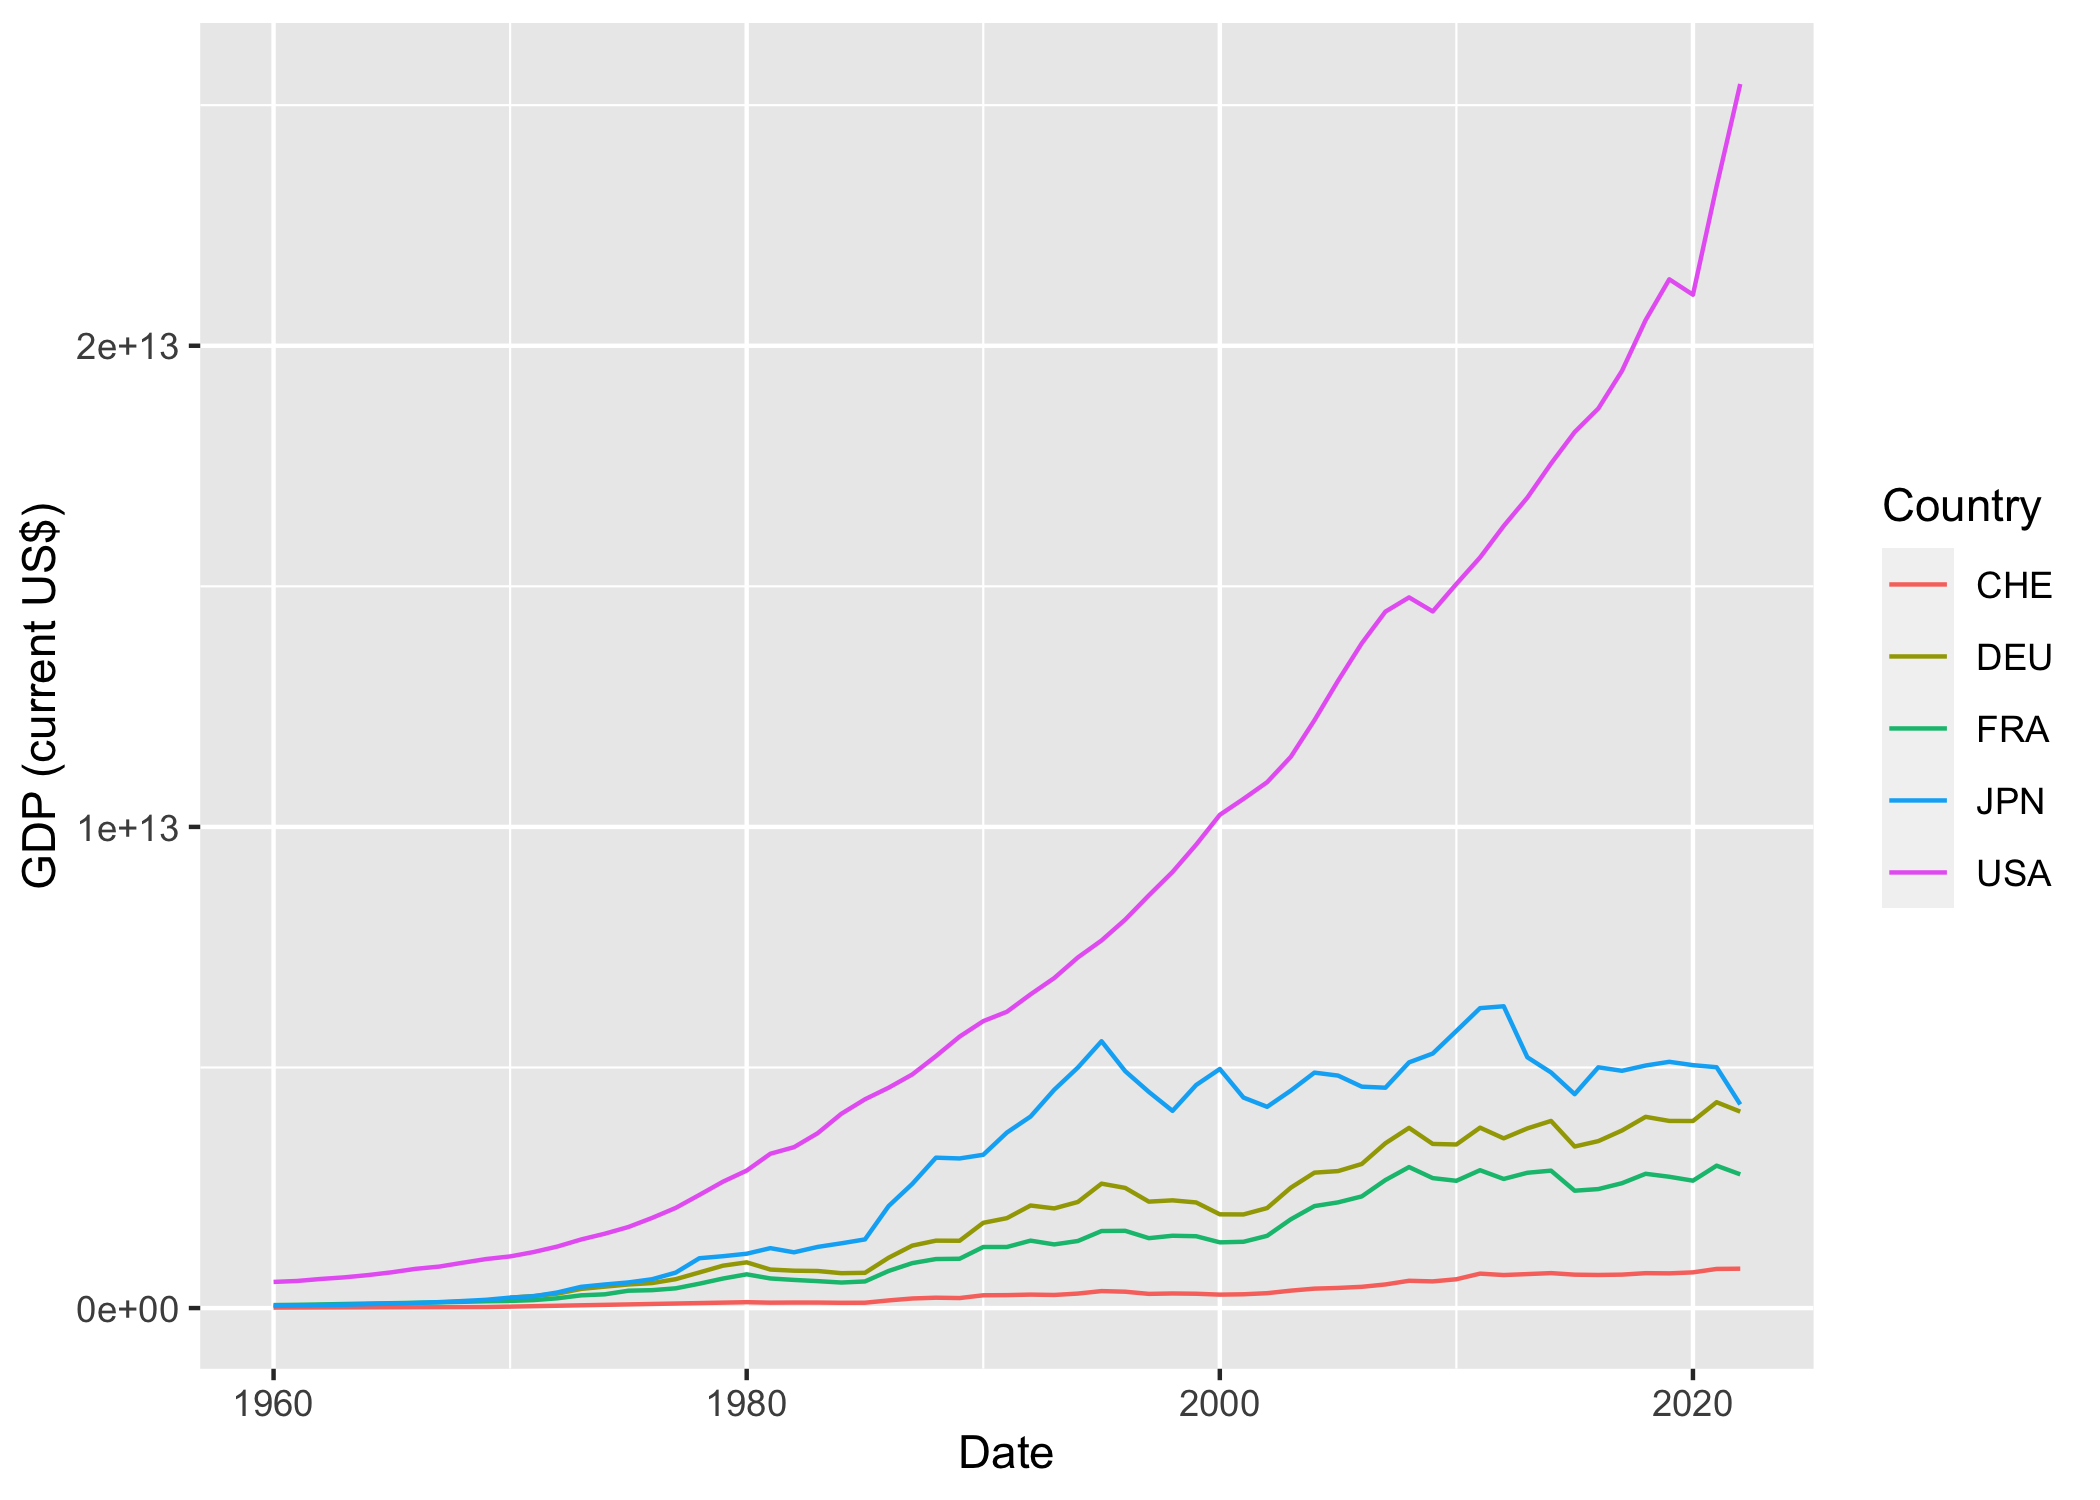
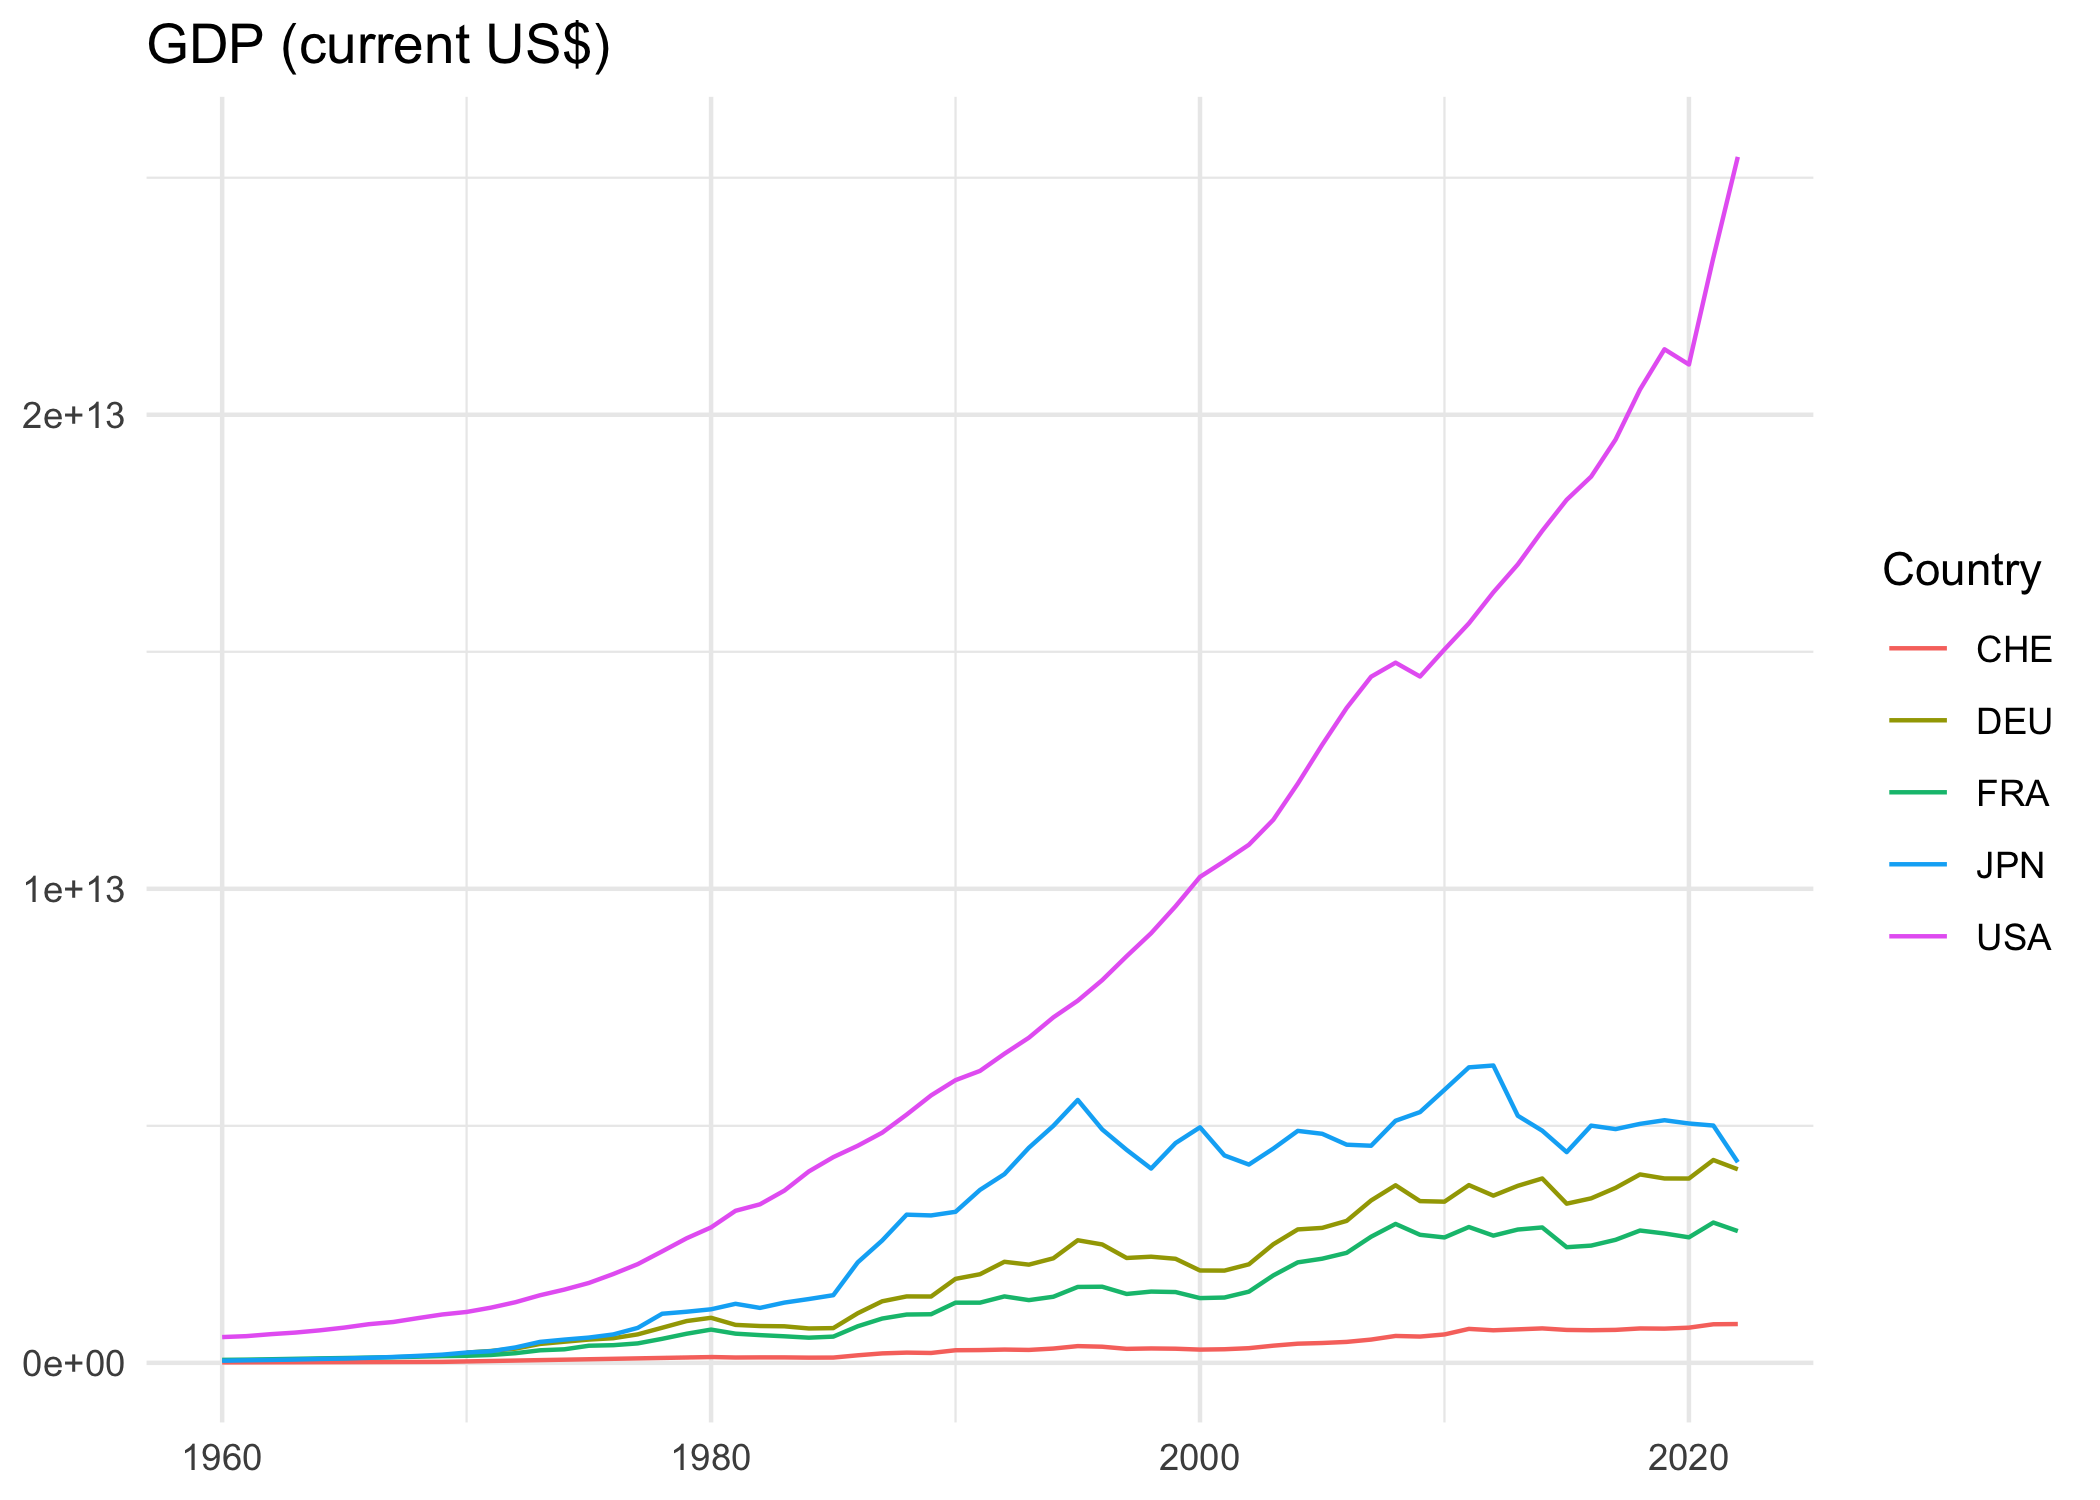
docs: clean-up readme

diff --git a/README.md b/README.md
@@ -71,10 +71,10 @@ library(worldbank)
 # filter by specific country
 wb_country(c("US", "DE"))
 #> # A tibble: 2 × 18
-#>   country_id country_code country_name  region_id region_code region_value
-#>   <chr>      <chr>        <chr>         <chr>     <chr>       <chr>
+#>   country_id country_code country_name  region_id region_code region_value      
+#>   <chr>      <chr>        <chr>         <chr>     <chr>       <chr>             
 #> 1 DEU        DE           Germany       ECS       Z7          Europe & Central …
-#> 2 USA        US           United States NAC       XU          North America
+#> 2 USA        US           United States NAC       XU          North America     
 #> # ℹ 12 more variables: admin_region_id <chr>, admin_region_code <chr>,
 #> #   admin_region_value <chr>, income_level_id <chr>, income_level_code <chr>,
 #> #   income_level_value <chr>, lending_type_id <chr>, lending_type_code <chr>,
@@ -84,19 +84,14 @@ wb_country(c("US", "DE"))
 # or fetch all (default)
 wb_country()
 #> # A tibble: 296 × 18
-#>    country_id country_code country_name       region_id region_code region_value
-#>    <chr>      <chr>        <chr>              <chr>     <chr>       <chr>
-#>  1 ABW        AW           Aruba              LCN       ZJ          Latin Ameri…
-#>  2 AFE        ZH           Africa Eastern an… NA        NA          Aggregates
-#>  3 AFG        AF           Afghanistan        SAS       8S          South Asia
-#>  4 AFR        A9           Africa             NA        NA          Aggregates
-#>  5 AFW        ZI           Africa Western an… NA        NA          Aggregates
-#>  6 AGO        AO           Angola             SSF       ZG          Sub-Saharan…
-#>  7 ALB        AL           Albania            ECS       Z7          Europe & Ce…
-#>  8 AND        AD           Andorra            ECS       Z7          Europe & Ce…
-#>  9 ARB        1A           Arab World         NA        NA          Aggregates
-#> 10 ARE        AE           United Arab Emira… MEA       ZQ          Middle East…
-#> # ℹ 286 more rows
+#>   country_id country_code country_name        region_id region_code region_value
+#>   <chr>      <chr>        <chr>               <chr>     <chr>       <chr>       
+#> 1 ABW        AW           Aruba               LCN       ZJ          Latin Ameri…
+#> 2 AFE        ZH           Africa Eastern and… NA        NA          Aggregates  
+#> 3 AFG        AF           Afghanistan         SAS       8S          South Asia  
+#> 4 AFR        A9           Africa              NA        NA          Aggregates  
+#> 5 AFW        ZI           Africa Western and… NA        NA          Aggregates  
+#> # ℹ 291 more rows
 #> # ℹ 12 more variables: admin_region_id <chr>, admin_region_code <chr>,
 #> #   admin_region_value <chr>, income_level_id <chr>, income_level_code <chr>,
 #> #   income_level_value <chr>, lending_type_id <chr>, lending_type_code <chr>,
@@ -107,20 +102,15 @@ wb_country()
 indicators <- wb_country_indicator("NY.GDP.MKTP.CD")
 indicators
 #> # A tibble: 13,200 × 10
-#>     date indicator_id   indicator_name    country_id country_name   country_code
-#>    <int> <chr>          <chr>             <chr>      <chr>          <chr>
-#>  1  2022 NY.GDP.MKTP.CD GDP (current US$) ZH         Africa Easter… AFE
-#>  2  2021 NY.GDP.MKTP.CD GDP (current US$) ZH         Africa Easter… AFE
-#>  3  2020 NY.GDP.MKTP.CD GDP (current US$) ZH         Africa Easter… AFE
-#>  4  2019 NY.GDP.MKTP.CD GDP (current US$) ZH         Africa Easter… AFE
-#>  5  2018 NY.GDP.MKTP.CD GDP (current US$) ZH         Africa Easter… AFE
-#>  6  2017 NY.GDP.MKTP.CD GDP (current US$) ZH         Africa Easter… AFE
-#>  7  2016 NY.GDP.MKTP.CD GDP (current US$) ZH         Africa Easter… AFE
-#>  8  2015 NY.GDP.MKTP.CD GDP (current US$) ZH         Africa Easter… AFE
-#>  9  2014 NY.GDP.MKTP.CD GDP (current US$) ZH         Africa Easter… AFE
-#> 10  2013 NY.GDP.MKTP.CD GDP (current US$) ZH         Africa Easter… AFE
-#> # ℹ 13,190 more rows
-#> # ℹ 4 more variables: value <dbl>, unit <chr>, obs_status <chr>, decimal <int>
+#>    date indicator_id indicator_name country_id country_name country_code   value
+#>   <int> <chr>        <chr>          <chr>      <chr>        <chr>          <dbl>
+#> 1  2022 NY.GDP.MKTP… GDP (current … ZH         Africa East… AFE          1.19e12
+#> 2  2021 NY.GDP.MKTP… GDP (current … ZH         Africa East… AFE          1.09e12
+#> 3  2020 NY.GDP.MKTP… GDP (current … ZH         Africa East… AFE          9.29e11
+#> 4  2019 NY.GDP.MKTP… GDP (current … ZH         Africa East… AFE          1.01e12
+#> 5  2018 NY.GDP.MKTP… GDP (current … ZH         Africa East… AFE          1.01e12
+#> # ℹ 13,195 more rows
+#> # ℹ 3 more variables: unit <chr>, obs_status <chr>, decimal <int>
 
 # plot indicator data for specific countries
 library(ggplot2)
@@ -128,7 +118,8 @@ library(ggplot2)
 subset(indicators, country_id %in% c("US", "DE", "FR", "CH", "JP")) |>
   ggplot(aes(x = date, y = value, color = country_code)) +
   geom_line() +
-  labs(x = "Date", y = "GDP (current US$)", color = "Country")
+  labs(x = NULL, y = NULL, title = "GDP (current US$)", color = "Country") +
+  theme_minimal()
 ```
 
 <img src="man/figures/README-demo-1.png" width="100%" />
